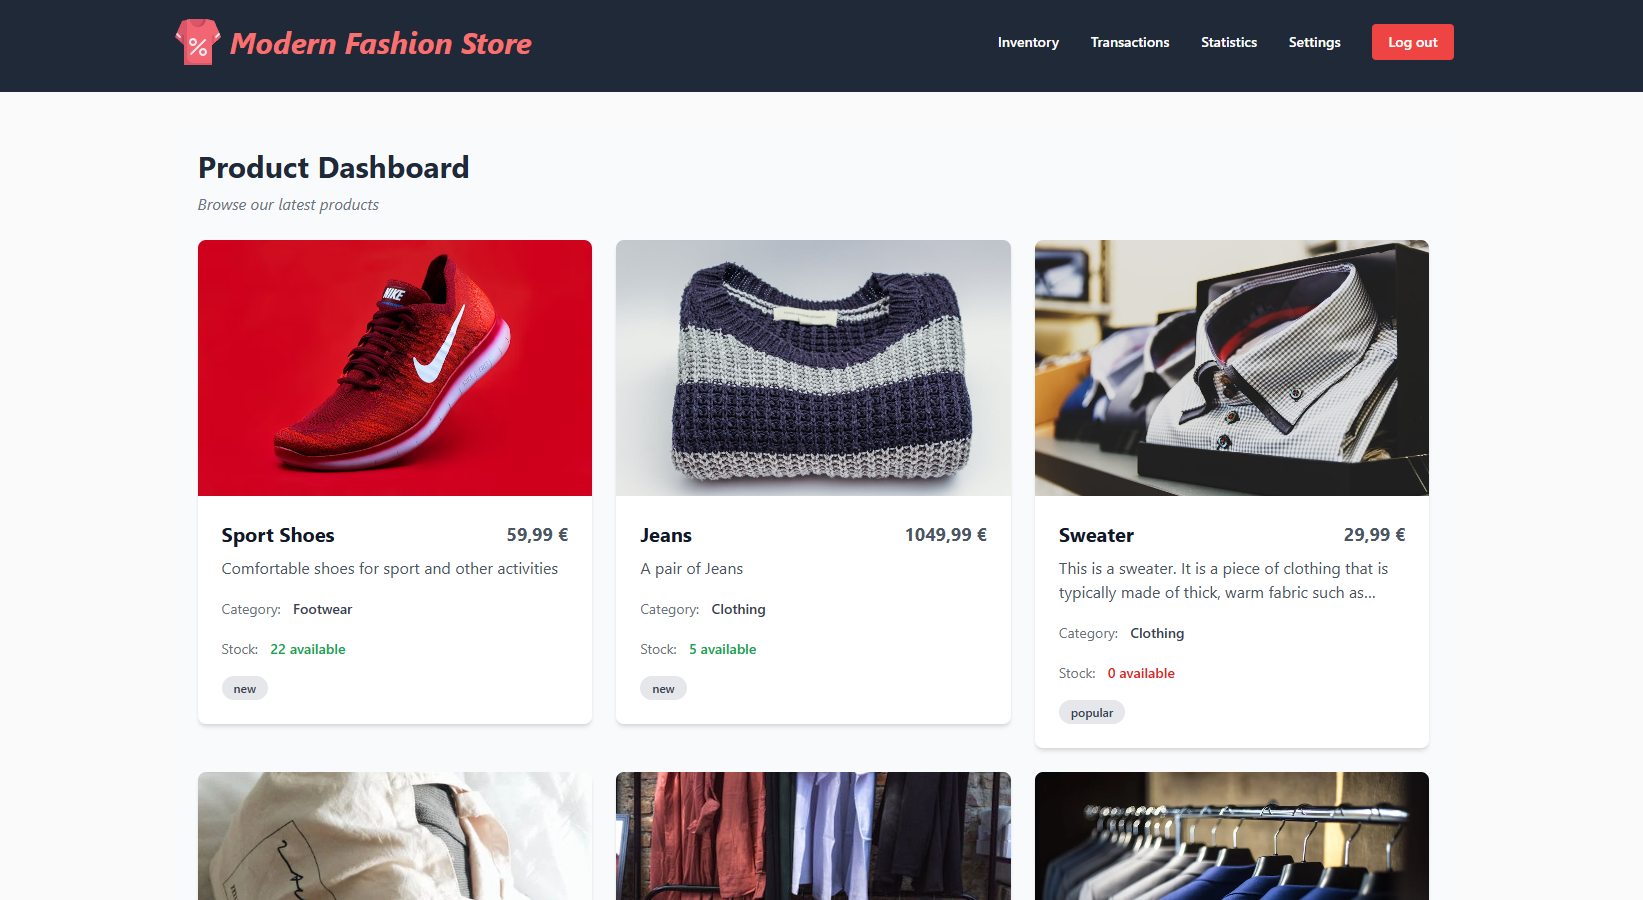
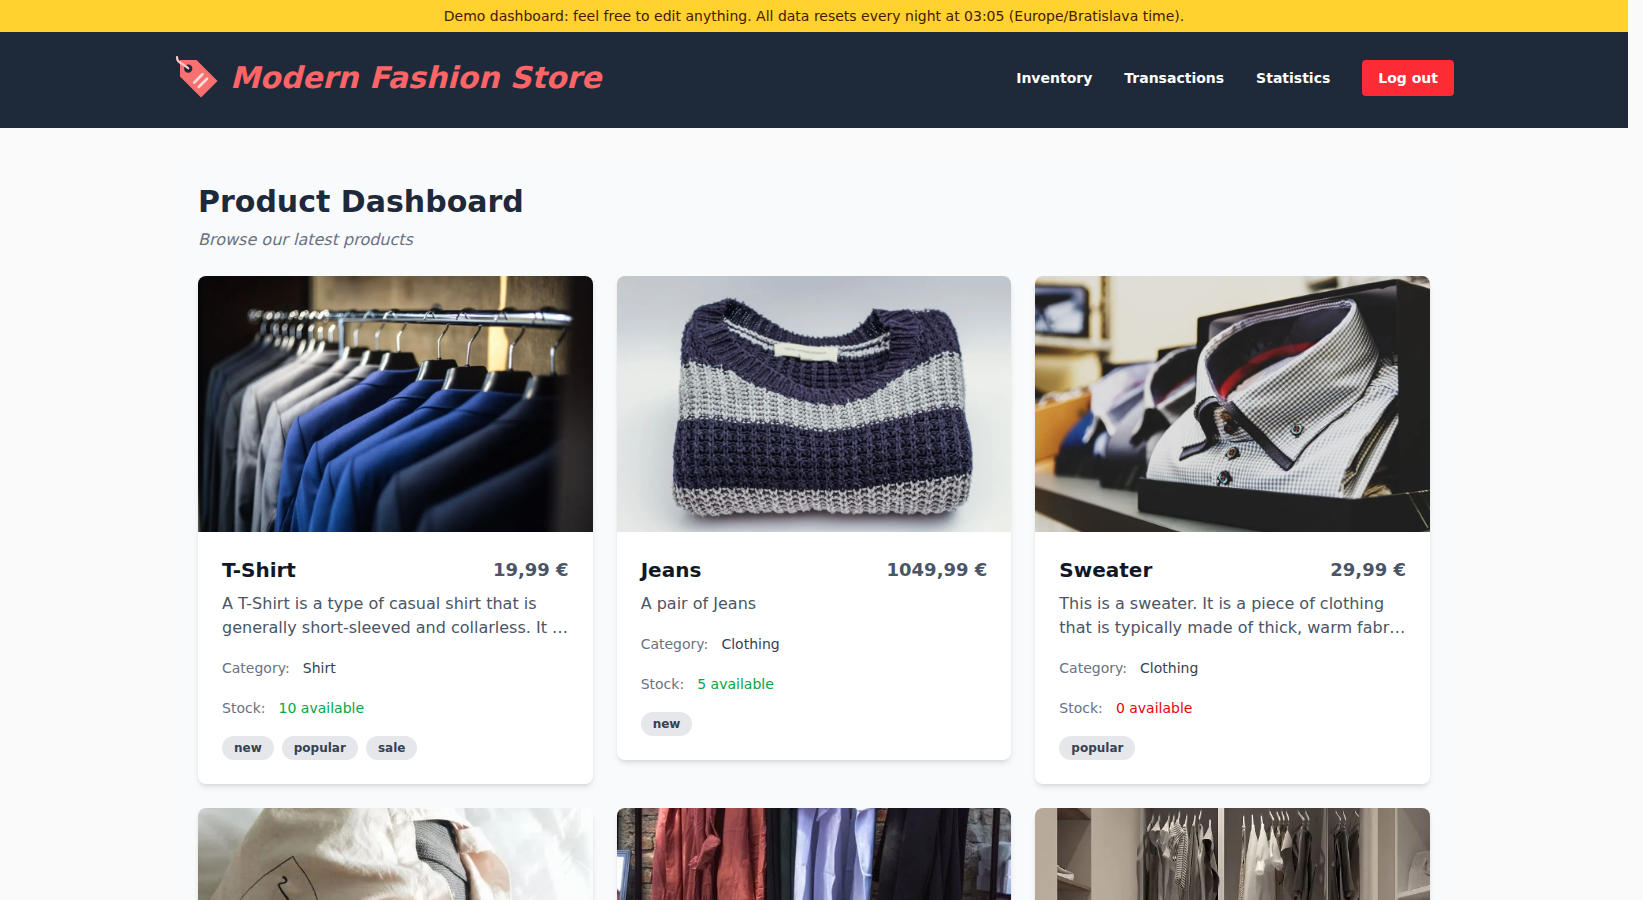
README: new live demo, Docker instructions, updated deployment notes

diff --git a/README.md b/README.md
@@ -2,11 +2,14 @@
 
 Author: **Ákos Kappel**
 
-Live Demo: **[Modern Fashion Store](https://130.61.106.56/users/log_in)**
+Live Demo: **[Modern Fashion Store](https://tagline.tailb52c43.ts.net)** (log in with the prefilled demo account; the data resets every night)
 
 # Table of Contents
 
+- [Tech stack](#tech-stack)
 - [Running the app](#running-the-app)
+  - [Locally](#locally)
+  - [With Docker](#with-docker)
 - [Screenshots](#screenshots)
   - [Login Page](#login-page)
   - [Home](#home)
@@ -24,16 +27,33 @@ Live Demo: **[Modern Fashion Store](https://130.61.106.56/users/log_in)**
 - [Bonus](#bonus)
 
 
+## Tech stack
+
+- Elixir 1.20 / OTP 29, Phoenix 1.8, Phoenix LiveView 1.2
+- Tailwind CSS 4 and esbuild, Bandit web server
+- PostgreSQL 18
+- nginx 1.30 in front of the app in production
+- Built as a `mix release` in a multi-stage Docker image
+
 ## Running the app
 
-To start your Phoenix server:
+### Locally
 
-- Run `mix setup` to install and setup dependencies
-- Apply database migrations with `mix ecto.migrate`
-- Seed the database with `mix run priv/repo/seeds.exs`
-- Start Phoenix endpoint with `mix phx.server` or inside IEx with `iex -S mix phx.server`
+1. Install Erlang and Elixir with [mise](https://mise.jdx.dev): `mise install` (versions are pinned in `mise.toml`).
+2. Create the configuration: `cp .env.example .env`, fill in `DB_PASSWORD`, `ADMIN_PASSWORD` and `SECRET_KEY_BASE` (generate it with `mix phx.gen.secret`), then `chmod 600 .env`.
+3. Start PostgreSQL: `docker compose up -d db` (listens on `127.0.0.1:5435` and creates the `tagline`, `tagline_dev` and `tagline_test` databases).
+4. Run `mix setup` to install dependencies, create and migrate the database and seed it.
+5. Start the server with `mix phx.server` (or `iex -S mix phx.server`) and visit [`localhost:4000`](http://localhost:4000).
 
-Now you can visit [`localhost:4000`](http://localhost:4000) from your browser.
+Run `mix precommit` before committing: it compiles with warnings as errors, checks formatting and runs the tests.
+
+### With Docker
+
+```
+docker compose up -d --build
+```
+
+The app is then available at [`127.0.0.1:8083`](http://127.0.0.1:8083) (nginx in front of the app). On first start the app migrates the database and seeds it if it is empty.
 
 ## Screenshots
 
@@ -170,5 +190,7 @@ Also, any of the filters can be combined together, for example, you can select a
 
 ## Bonus
 
-After finishing the project, I deployed it my own server, where I configured Nginx to serve the app.
-You can find the link to the app [here](https://130.61.106.56/users/log_in).
+The app runs as a Docker release on a home server, behind nginx (security headers and rate limiting) and is published to the internet with a Tailscale Funnel sidecar container, at [tagline.tailb52c43.ts.net](https://tagline.tailb52c43.ts.net).
+It is a public demo: you log in with the prefilled demo account, the data resets every night (by default at 03:00 Europe/Bratislava time, configurable with the `DEMO_RESET_*` settings), the e-mail and password of the demo account can't be changed, registration is disabled, and e-mails are only logged, never sent.
+The seed photos are Pexels photos served locally as WebP.
+In 2026 I upgraded the app from Phoenix 1.7, LiveView 1.0 and Tailwind 3 to the current versions listed in the [tech stack](#tech-stack).
